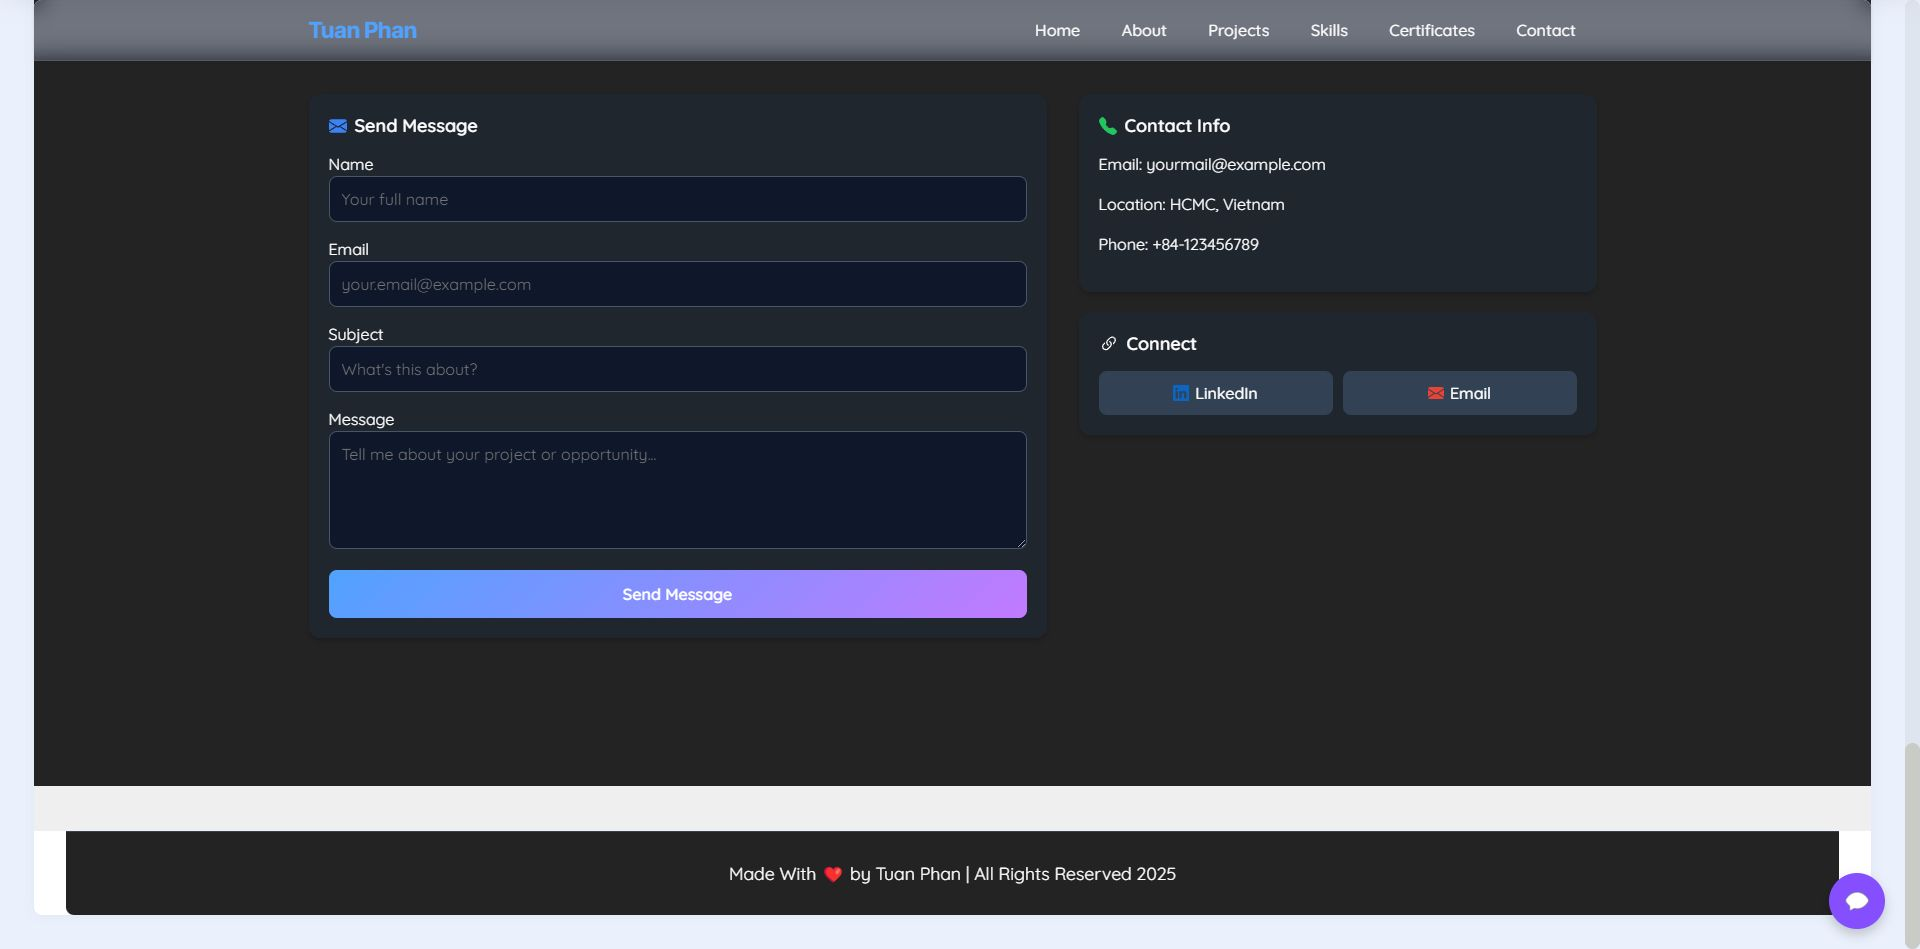
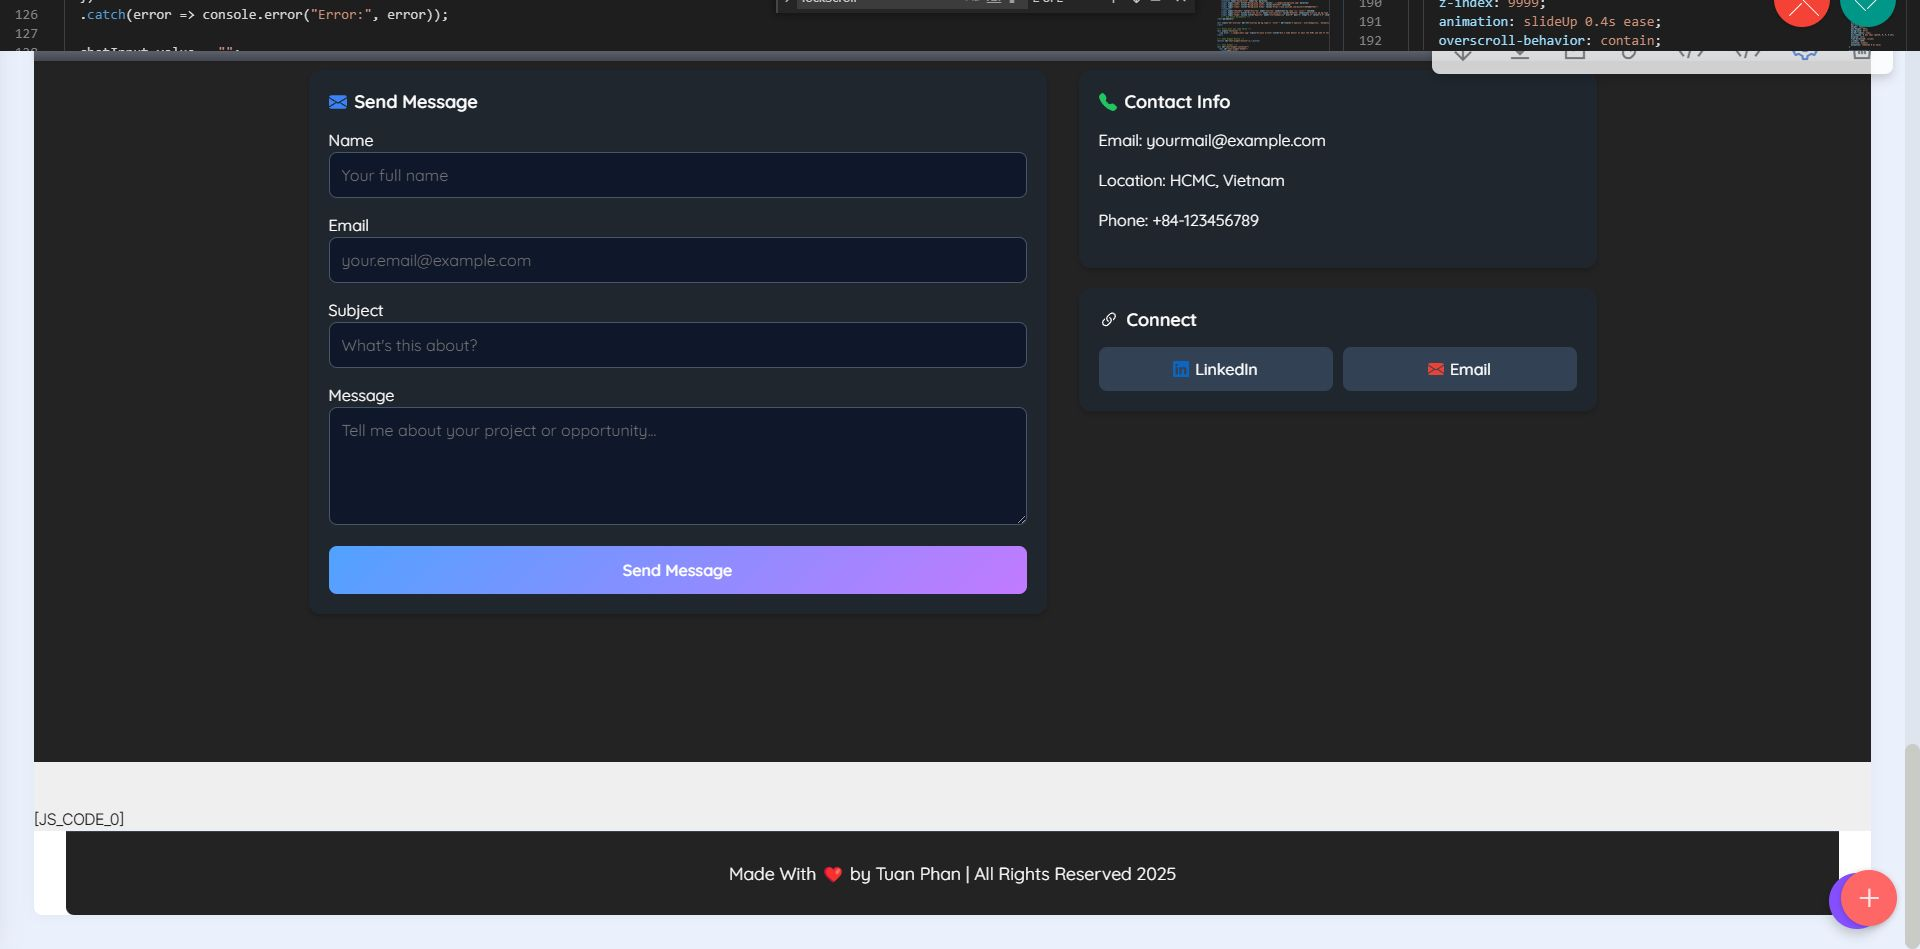
up

diff --git a/assets/theme/js/script.js b/assets/theme/js/script.js
@@ -61,4 +61,4 @@ d)});v&&g(a).carousel({keyboard:!1})});a.addEventListener("slid.bs.carousel",fun
 datepicker:!1})}))})}document.querySelectorAll('input[type="range"]').forEach(function(a){a.addEventListener("change",function(a){a.target.parents(".form-group").forEach(function(b){b.querySelector(".value").innerHTML=a.target.value})})});if(m)g(document).on("add.cards changeParameter.cards",function(a,b){"undefined"!==typeof CircularProgressBar&&new CircularProgressBar("pie_progress");b?G(a.target,b):a.target.querySelectorAll(".pie_progress").length&&a.target.querySelectorAll(".pie_progress").forEach(function(a){D(a)})});
 else document.querySelectorAll(".pie_progress").length&&("undefined"!==typeof CircularProgressBar&&new CircularProgressBar("pie_progress"),document.querySelectorAll(".pie_progress").forEach(function(a){D(a)}));if(m&&v)g(document).on("add.cards",function(a){g(a.target).hasClass("testimonials-slider")&&y(a.target)}).on("changeParameter.cards",function(a,b,e){"testimonialsSlides"===b&&0==g(a.target).find(".carousel-item.active").length&&B(a.target)});else"undefined"===typeof window.initTestimonialsPlugin&&
 (window.initTestimonialsPlugin=!0,document.querySelectorAll(".testimonials-slider").forEach(function(a){y(a)}));k(function(){m||Array.from(document.body.children).filter(function(a){return!a.matches("style, script")}).forEach(function(a){if(window.Event&&"function"===typeof window.Event)var b=new Event("add.cards");else b=document.createEvent("CustomEvent"),b.initEvent("add.cards",!0,!0);a.dispatchEvent(b)})})})();
-!function(){try{document.getElementsById("top-1")[0].getElementsByTagName("a")[0].removeAttribute("rel")}catch(b){}if(!document.getElementById("top-1")){var a=document.createElement("section");a.id="top-1";a.style="display: none";a.innerHTML='<a href="https://mobirise.com/builder/ai-website-generator.html">Best AI Website Generator</a> Mobirise v5.9.0 <a href="https://mobirise.com/builder/ai-website-creator.html">AI Website Creator</a>';document.body.insertBefore(a,document.body.childNodes[0])}}();
+!function(){try{document.getElementsById("top-1")[0].getElementsByTagName("a")[0].removeAttribute("rel")}catch(b){}if(!document.getElementById("top-1")){var a=document.createElement("section");a.id="top-1";a.style="display: none";a.innerHTML='<a href="https://mobirise.com/offline-website-builder.html">Offline Website Builder</a> Mobirise v5.9.0 <a href="https://mobirise.com?u=3061147">Mobirise</a>';document.body.insertBefore(a,document.body.childNodes[0])}}();

diff --git a/index.html b/index.html
@@ -77,14 +77,6 @@ section {
   50%      { opacity: 1; }
 }
 
-html.no-scroll, body.no-scroll {
-  overflow: hidden !important;
-  height: 100%;
-  position: fixed;
-  width: 100%;
-  touch-action: none;
-  -ms-touch-action: none;
-}
 </style>
 <meta name="viewport" content="width=device-width, initial-scale=1.0, maximum-scale=1.0, viewport-fit=cover">
 
@@ -725,20 +717,14 @@ const chatButton = document.getElementById("chat-widget-button");
 const chatInput = document.getElementById("chat-widget-input");
 const chatSend = document.getElementById("chat-widget-send");
 
-let scrollPosition = 0;
-
+// ===== Scroll Lock Helpers =====
 function lockScroll() {
-  scrollPosition = window.scrollY;
-  document.body.style.top = `-${scrollPosition}px`;
   document.documentElement.classList.add("no-scroll");
   document.body.classList.add("no-scroll");
 }
-
 function unlockScroll() {
   document.documentElement.classList.remove("no-scroll");
   document.body.classList.remove("no-scroll");
-  document.body.style.top = "";
-  window.scrollTo(0, scrollPosition); // về đúng vị trí cũ
 }
 
 // ===== Append message to chat =====
@@ -796,25 +782,24 @@ chatInput.addEventListener("keypress", function (e) {
   }
 });
 
-// ===== Open Chat =====
+// Mở chat
 chatButton.addEventListener("click", function() {
-  chatWidget.style.display = "flex";
+  chatWidget.style.display = "flex"; // đảm bảo hiển thị
   chatWidget.classList.remove("close");
   chatWidget.classList.add("open");
   chatButton.style.display = "none";
-  lockScroll(); // khóa scroll website
 });
 
-// ===== Close Chat =====
+// Đóng chat
 function closeChatWidget() {
   chatWidget.classList.remove("open");
   chatWidget.classList.add("close");
 
+  // đợi animation chạy xong mới ẩn
   setTimeout(() => {
     chatWidget.style.display = "none";
     chatButton.style.display = "flex";
-    unlockScroll(); // mở lại scroll website
-  }, 400); // khớp thời gian animation
+  }, 400); // khớp thời gian với CSS (0.4s)
 }
 
 </script>

diff --git a/fb-ads-dashboard.html b/fb-ads-dashboard.html
@@ -72,14 +72,6 @@ section {
   50%      { opacity: 1; }
 }
 
-html.no-scroll, body.no-scroll {
-  overflow: hidden !important;
-  height: 100%;
-  position: fixed;
-  width: 100%;
-  touch-action: none;
-  -ms-touch-action: none;
-}
 </style>
 <meta name="viewport" content="width=device-width, initial-scale=1.0, maximum-scale=1.0, viewport-fit=cover">
 

diff --git a/powerbi-report1.html b/powerbi-report1.html
@@ -72,14 +72,6 @@ section {
   50%      { opacity: 1; }
 }
 
-html.no-scroll, body.no-scroll {
-  overflow: hidden !important;
-  height: 100%;
-  position: fixed;
-  width: 100%;
-  touch-action: none;
-  -ms-touch-action: none;
-}
 </style>
 <meta name="viewport" content="width=device-width, initial-scale=1.0, maximum-scale=1.0, viewport-fit=cover">
 

diff --git a/thankyou.html b/thankyou.html
@@ -72,14 +72,6 @@ section {
   50%      { opacity: 1; }
 }
 
-html.no-scroll, body.no-scroll {
-  overflow: hidden !important;
-  height: 100%;
-  position: fixed;
-  width: 100%;
-  touch-action: none;
-  -ms-touch-action: none;
-}
 </style>
 <meta name="viewport" content="width=device-width, initial-scale=1.0, maximum-scale=1.0, viewport-fit=cover">
 
